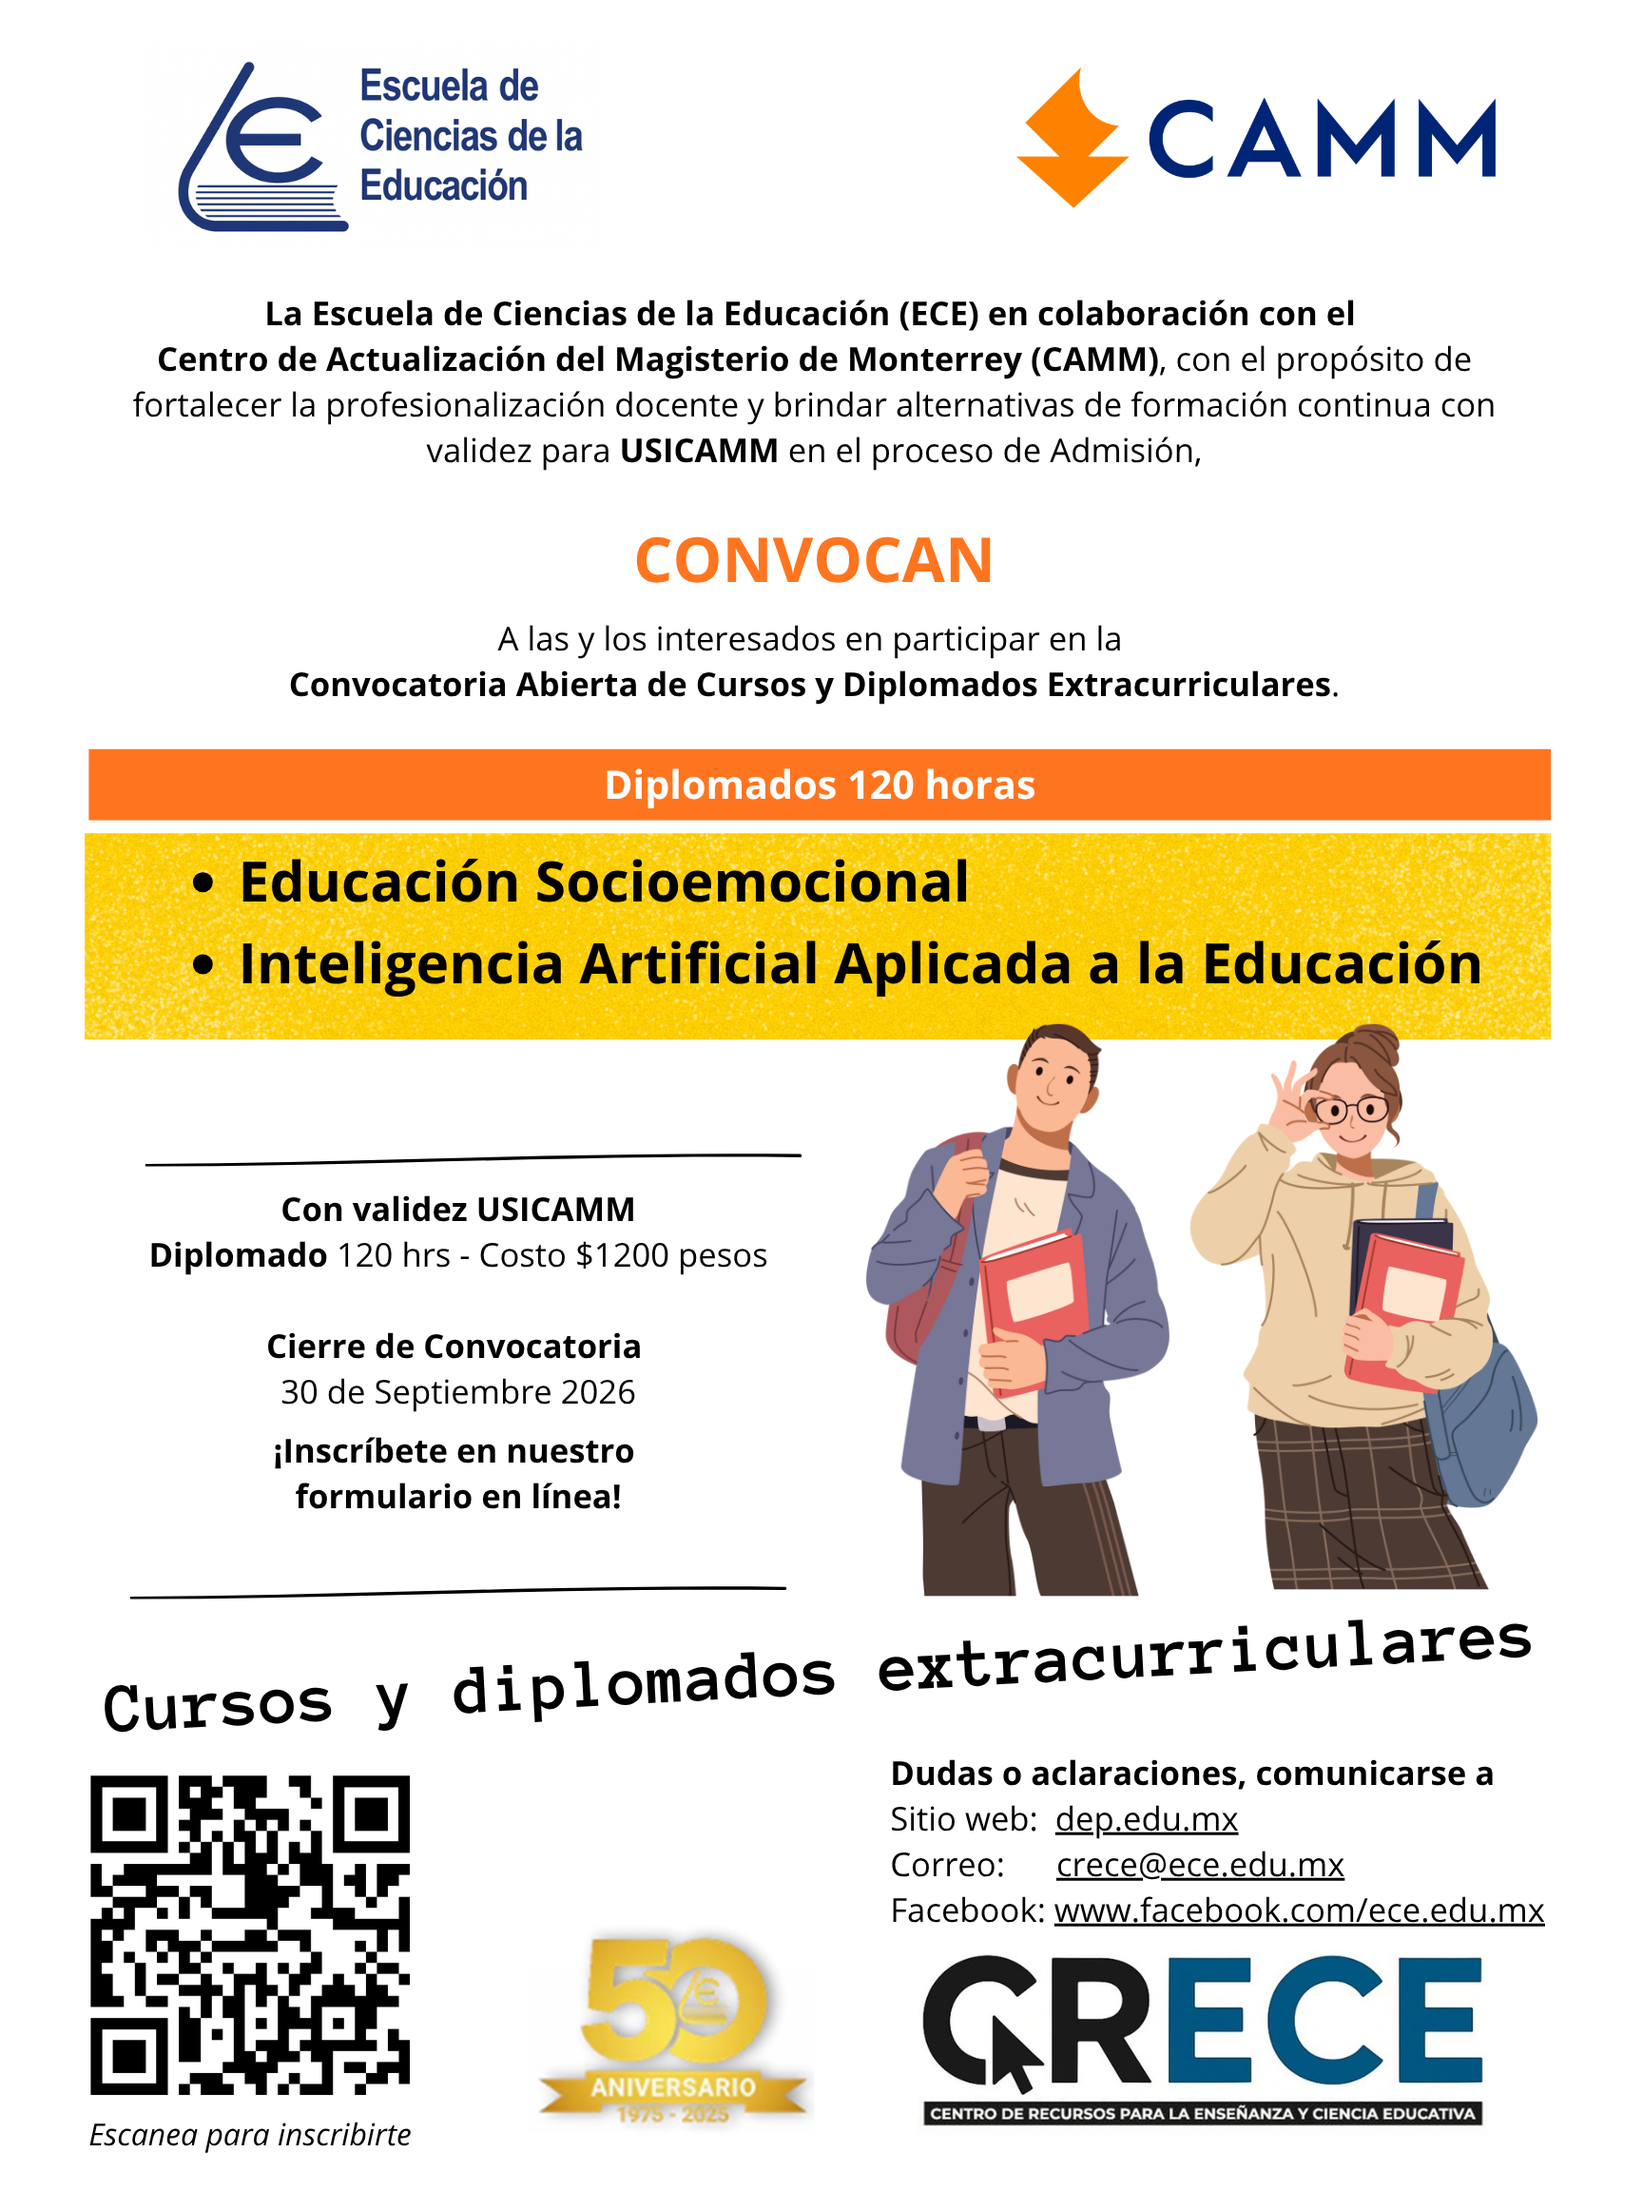
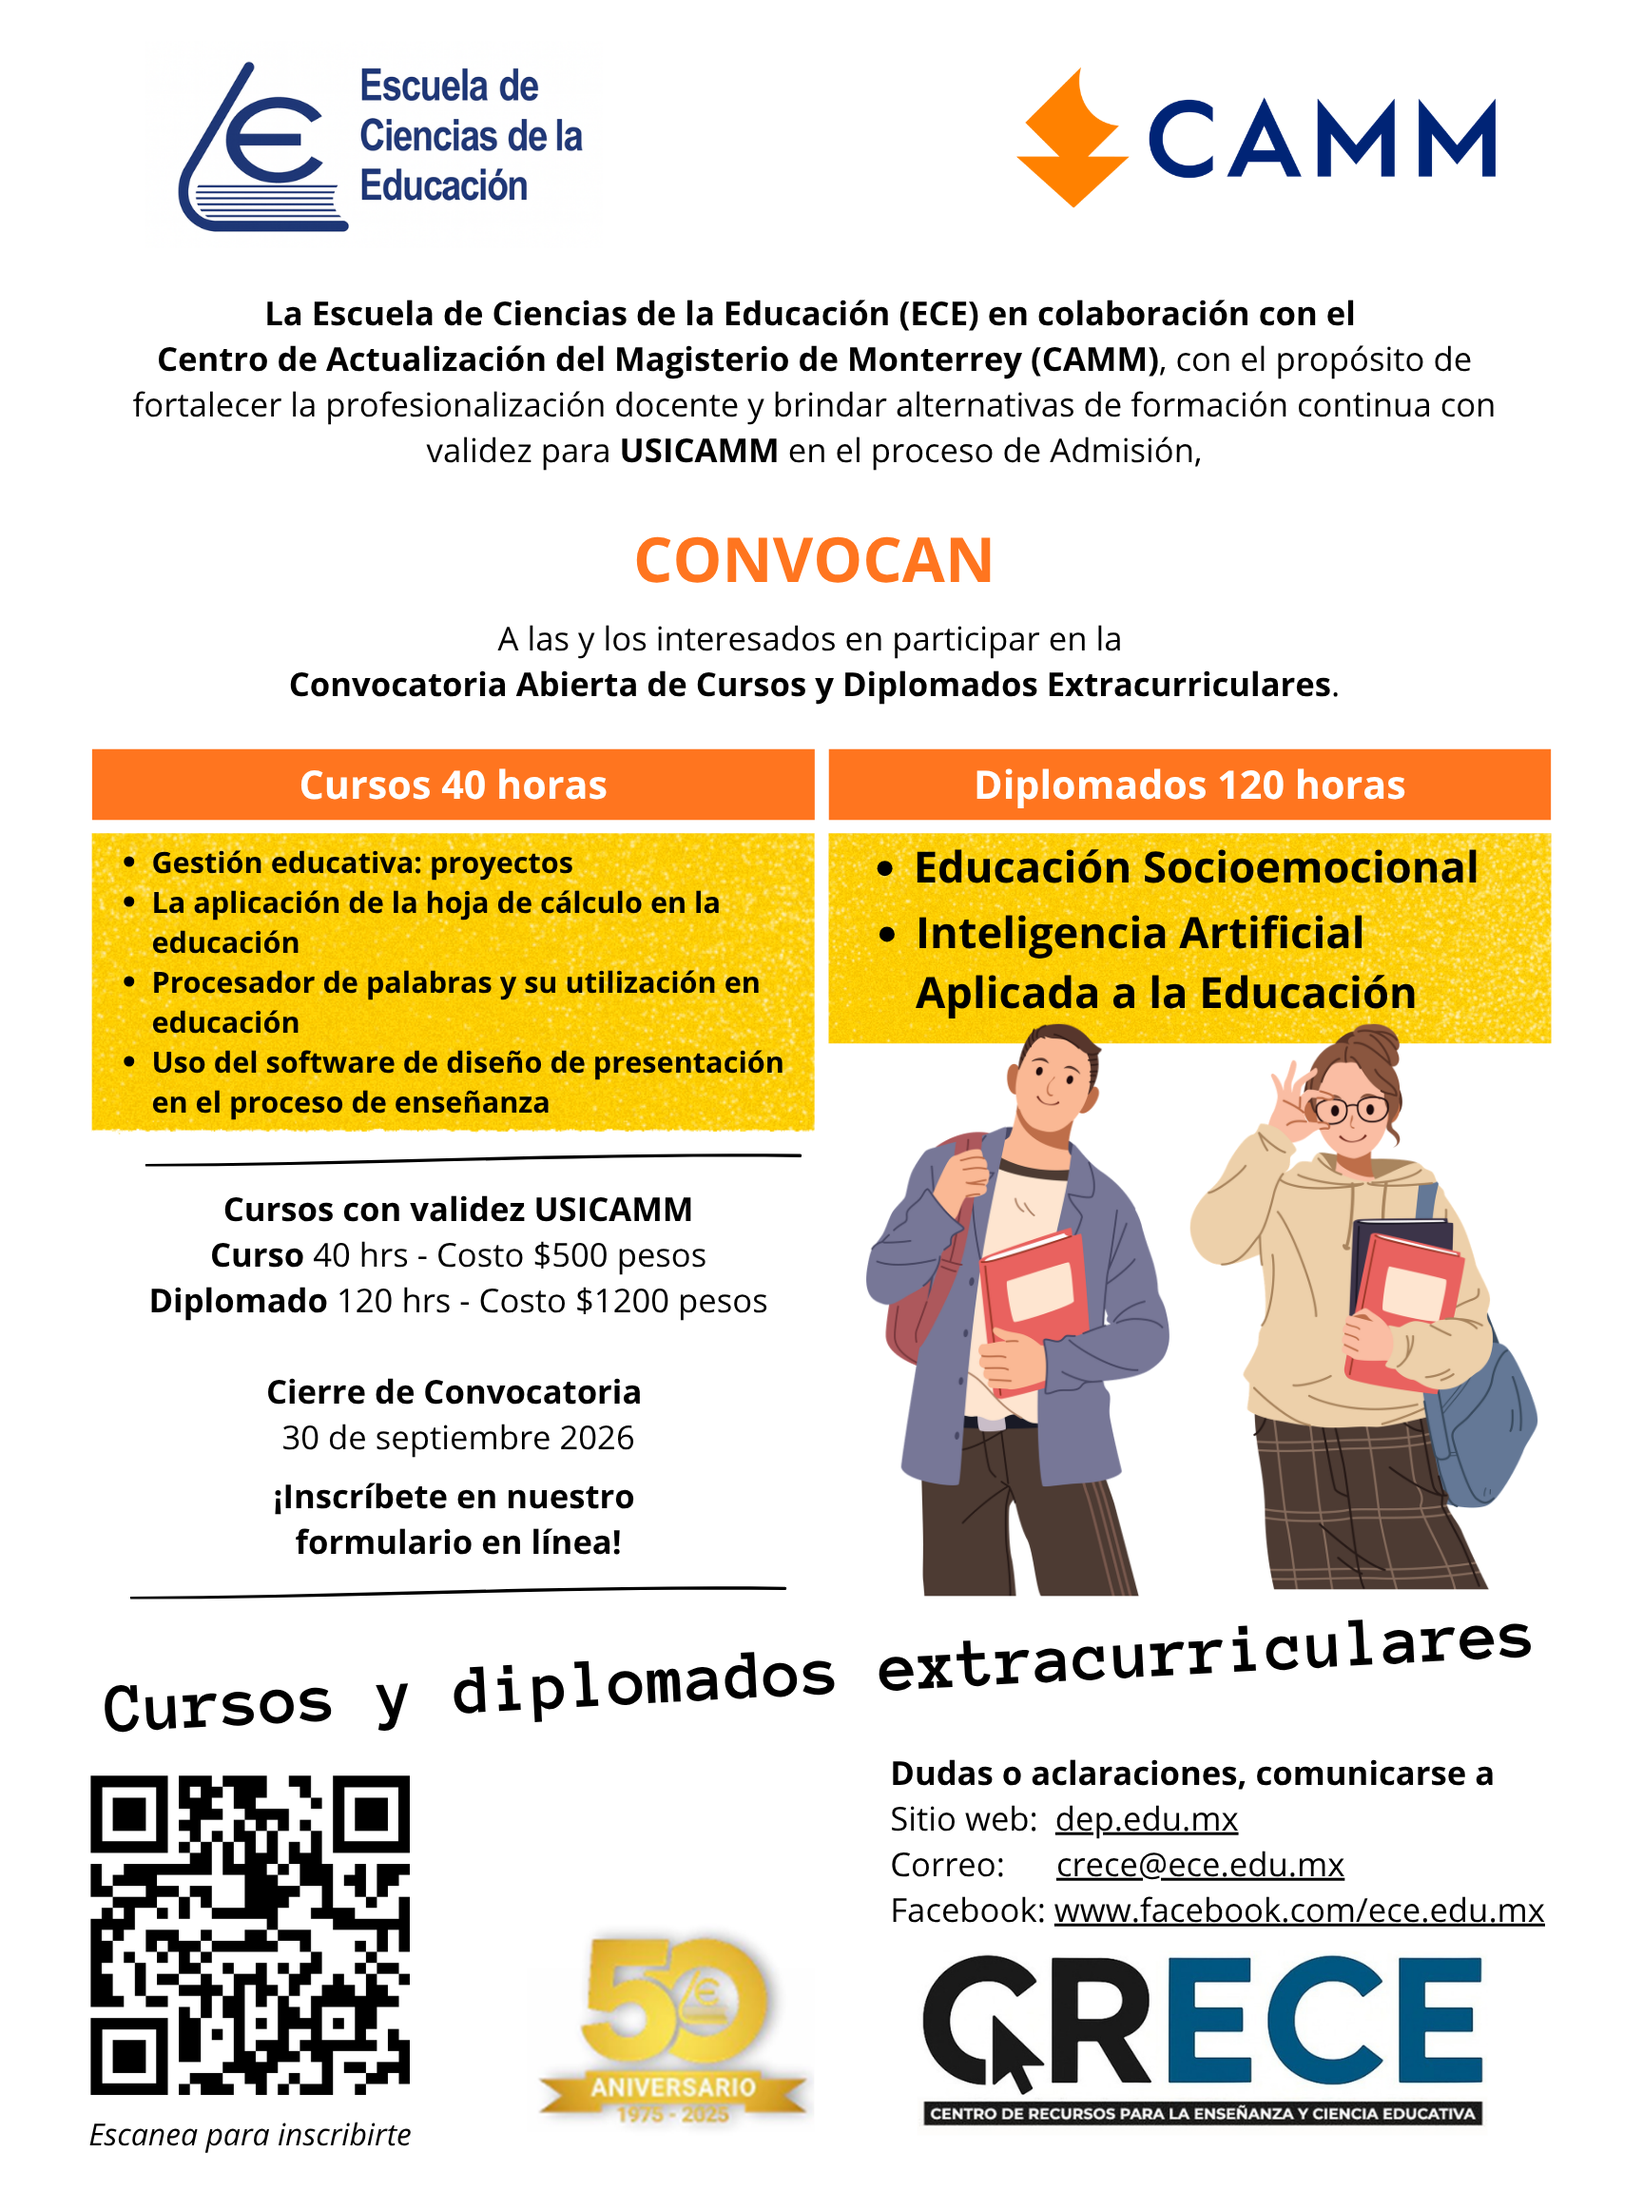
Actualiza convocatoria ECE CAMM en convocatorias

Changed region(s): [[0.0312, 0.3438, 0.9062, 0.7188]]

diff --git a/convocatorias.html b/convocatorias.html
@@ -12,7 +12,7 @@
 
   <meta charset="UTF-8">
   <meta name="viewport" content="width=device-width, initial-scale=1.0">
-  <meta name="description" content="Convocatorias del CRECE — Diplomados ECE-CAMM de 120 horas con validez USICAMM para el proceso de admisión.">
+  <meta name="description" content="Convocatorias del CRECE — Convocatoria abierta ECE-CAMM octubre 2026 para cursos y diplomados extracurriculares con valor USICAMM.">
   <title>Convocatorias | CRECE</title>
   <!-- SEO -->
   <link rel="canonical" href="https://dep.edu.mx/convocatorias.html">
@@ -23,7 +23,7 @@
   <meta property="og:site_name" content="CRECE — ECE Nuevo León">
   <meta property="og:url" content="https://dep.edu.mx/convocatorias.html">
   <meta property="og:title" content="Convocatorias | CRECE">
-  <meta property="og:description" content="Convocatoria vigente de Diplomados ECE-CAMM de 120 horas con validez USICAMM para el proceso de admisión.">
+  <meta property="og:description" content="Convocatoria abierta ECE-CAMM octubre 2026 para cursos y diplomados extracurriculares con valor USICAMM.">
   <meta property="og:image" content="https://dep.edu.mx/assets/convocatoria-crece-camm-diplomados-octubre-2026.png">
   <meta property="og:image:width" content="1122">
   <meta property="og:image:height" content="1402">
@@ -288,24 +288,26 @@
     </section>
     <section class="section">
       <div class="container">
-        <span class="eyebrow">Formaci&oacute;n continua</span>
+        <span class="eyebrow">Formaci&oacute;n extracurricular</span>
         <h2 class="section-title">Convocatorias vigentes</h2>
-        <p class="section-lead">Diplomados extracurriculares con registro oficial disponible.</p>
+        <p class="section-lead">Cursos de 40 horas y diplomados de 120 horas con registro oficial disponible.</p>
         <article class="info-card call-feature" id="convocatoria-ece-camm-septiembre-2026" style="margin-top:28px;">
           <div class="call-feature-poster">
-            <img src="assets/convocatoria-crece-camm-diplomados-octubre-2026.png" alt="Promocional de la convocatoria ECE-CAMM de diplomados extracurriculares 2026">
+            <img src="assets/convocatoria-crece-camm-diplomados-octubre-2026.png" alt="Convocatoria ECE-CAMM octubre 2026 de cursos y diplomados extracurriculares">
           </div>
           <div>
             <span class="badge badge-open" style="margin-bottom:12px;">Convocatoria abierta</span>
-            <h3>Diplomados ECE-CAMM</h3>
-            <p>La Escuela de Ciencias de la Educaci&oacute;n, en colaboraci&oacute;n con el Centro de Actualizaci&oacute;n del Magisterio de Monterrey, ofrece diplomados con validez USICAMM exclusivamente para el proceso de admisi&oacute;n.</p>
+            <h3>Convocatoria ECE-CAMM de Cursos y Diplomados Extracurriculares</h3>
+            <p>Cursos de 40 horas con valor USICAMM y diplomados de 120 horas con validez USICAMM exclusivamente para el proceso de admisi&oacute;n. Inscripci&oacute;n mediante formulario en l&iacute;nea.</p>
             <ul class="info-list">
-              <li><strong>Diplomados de 120 horas:</strong> Educaci&oacute;n Socioemocional e Inteligencia Artificial Aplicada a la Educaci&oacute;n.</li>
-              <li><strong>Costo:</strong> $1,200 pesos.</li>
-              <li><strong>Cierre:</strong> 30 de septiembre de 2026.</li>
-              <li><strong>Dudas:</strong> <a href="mailto:crece@ece.edu.mx" style="color:var(--orange);font-weight:700;">crece@ece.edu.mx</a>.</li>
+              <li><strong>Cierre de convocatoria:</strong> 30 de septiembre de 2026.</li>
+              <li><strong>Cursos 40 horas:</strong> Gesti&oacute;n educativa: proyectos; hoja de c&aacute;lculo en la educaci&oacute;n; procesador de palabras; software de dise&ntilde;o de presentaci&oacute;n.</li>
+              <li><strong>Diplomados 120 horas:</strong> Educaci&oacute;n Socioemocional e Inteligencia Artificial Aplicada a la Educaci&oacute;n.</li>
+              <li><strong>Diplomados:</strong> inician el 1 de octubre y finalizan el 29 de diciembre de 2026. Modalidad en l&iacute;nea y autogestiva.</li>
+              <li><strong>Costos:</strong> Curso $500 pesos; Diplomado $1200 pesos.</li>
+              <li><strong>Dudas:</strong> <a href="mailto:crece@ece.edu.mx" style="color:var(--orange);font-weight:700;">crece@ece.edu.mx</a></li>
             </ul>
-            <div class="call-actions"><a href="https://forms.gle/G3wFP5sjjeRhAEd88" target="_blank" rel="noopener" class="btn btn-primary">Inscribirme en línea</a><a href="assets/convocatoria-crece-camm-diplomados-octubre-2026.png" target="_blank" rel="noopener" class="btn btn-outline">Ver promocional</a></div>
+            <div class="call-actions"><a href="https://forms.gle/G3wFP5sjjeRhAEd88" target="_blank" rel="noopener" class="btn btn-primary">Registro</a><a href="oferta-educativa.html" class="btn btn-outline">Ver oferta educativa</a></div>
           </div>
         </article>
 
